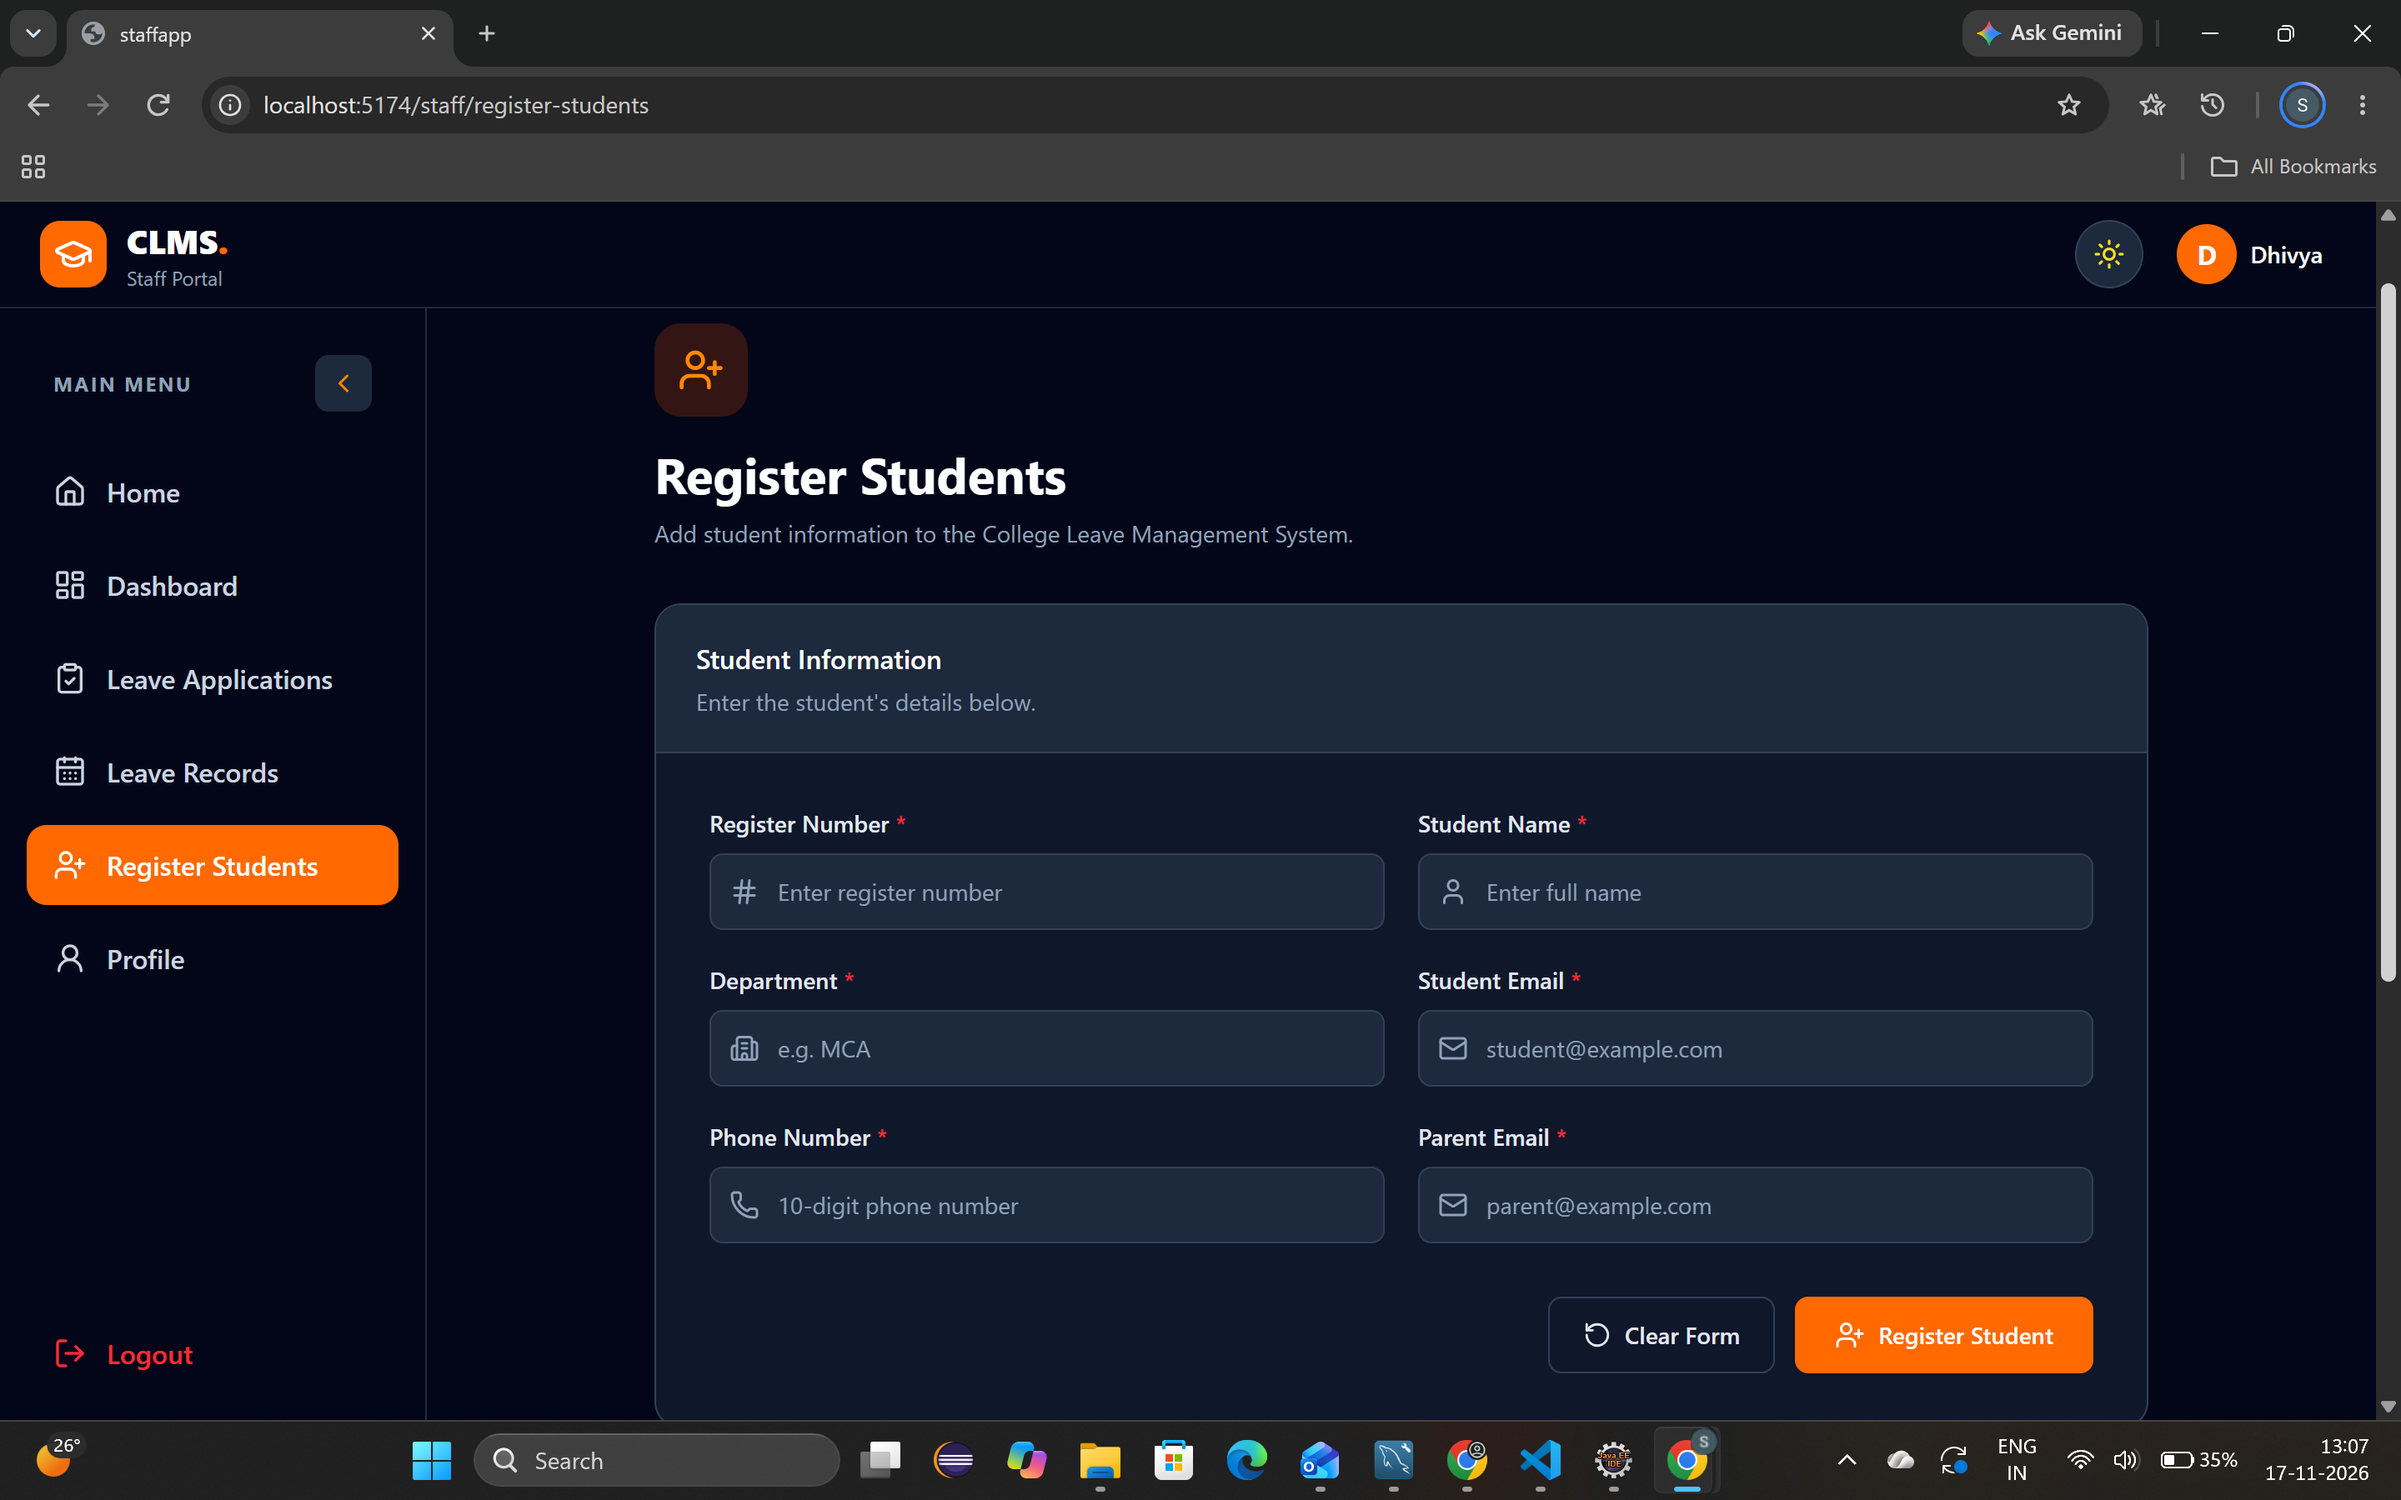
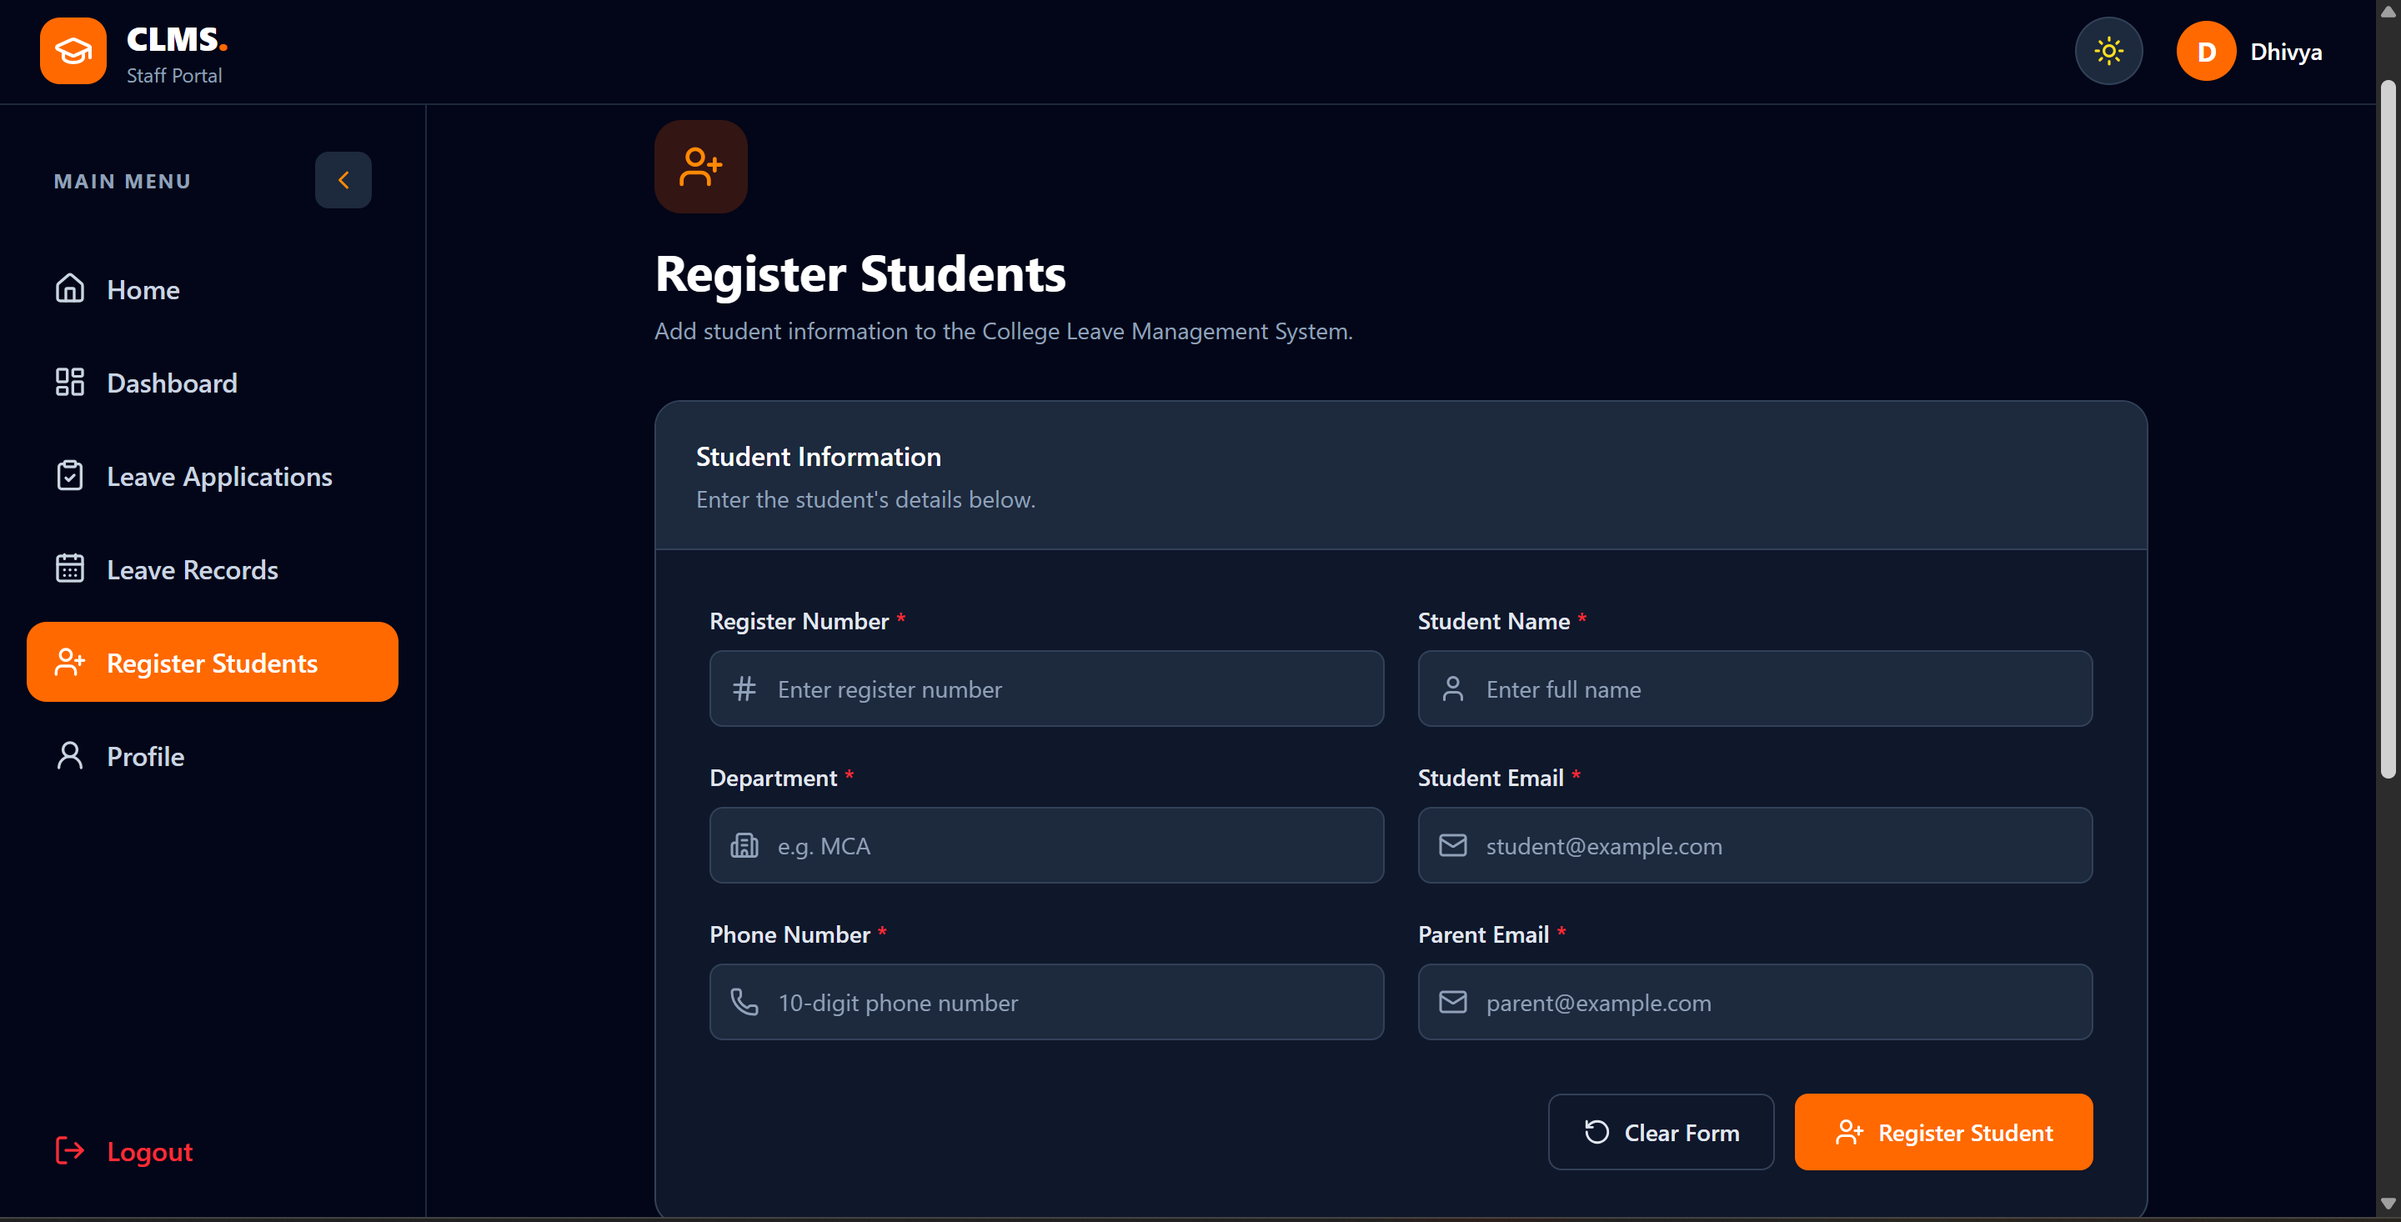
updated filename

diff --git a/README.md b/README.md
@@ -223,7 +223,7 @@ Ensure both frontend API configurations point to the running backend.
 
 **Student Home**
 
-![Student Home](screenshots/student-Home-page.png)
+![Student Home](screenshots/student-homepage.png)
 
 **Student Dashboard**
 
